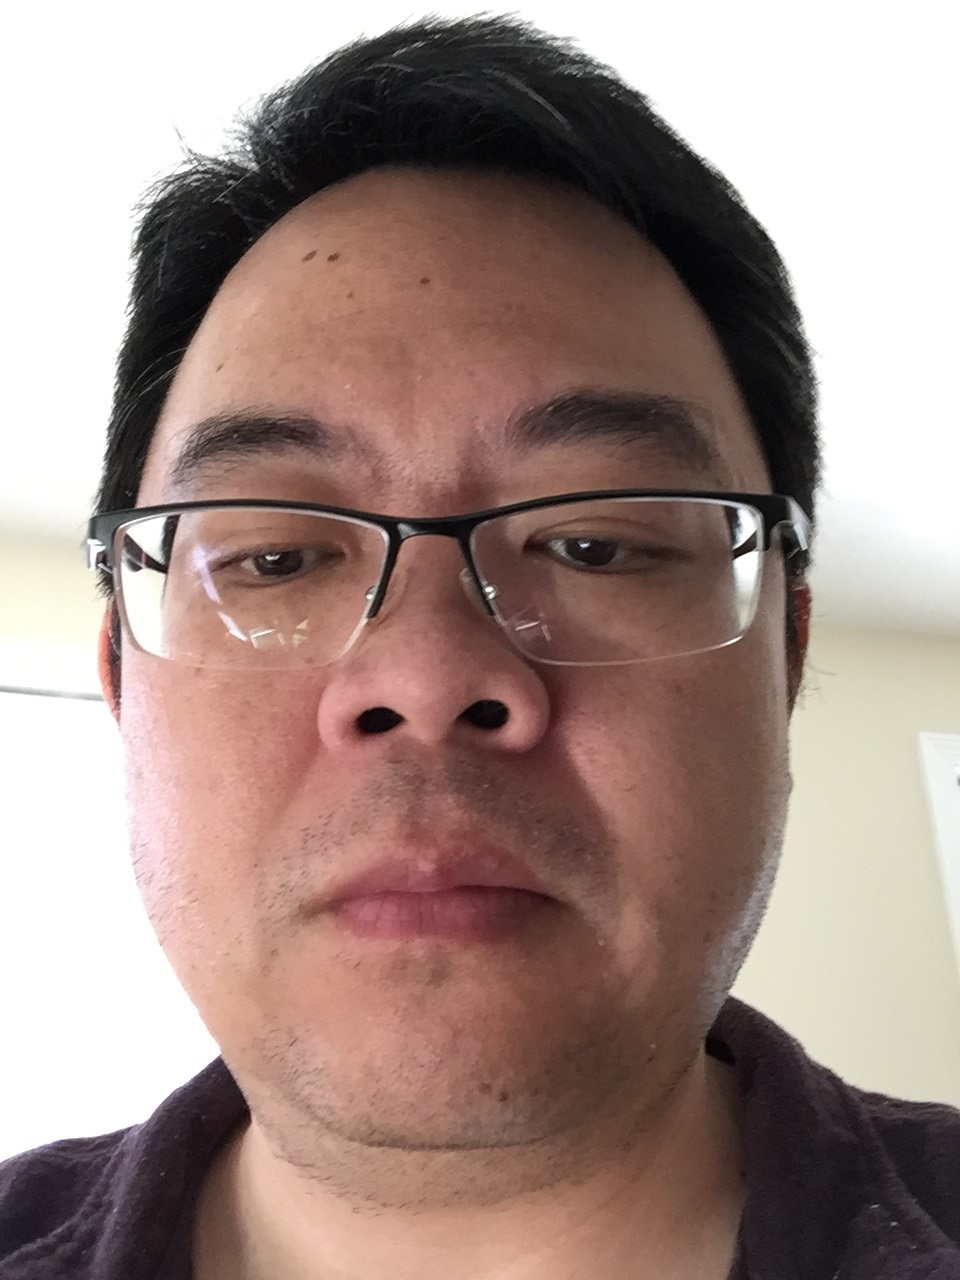
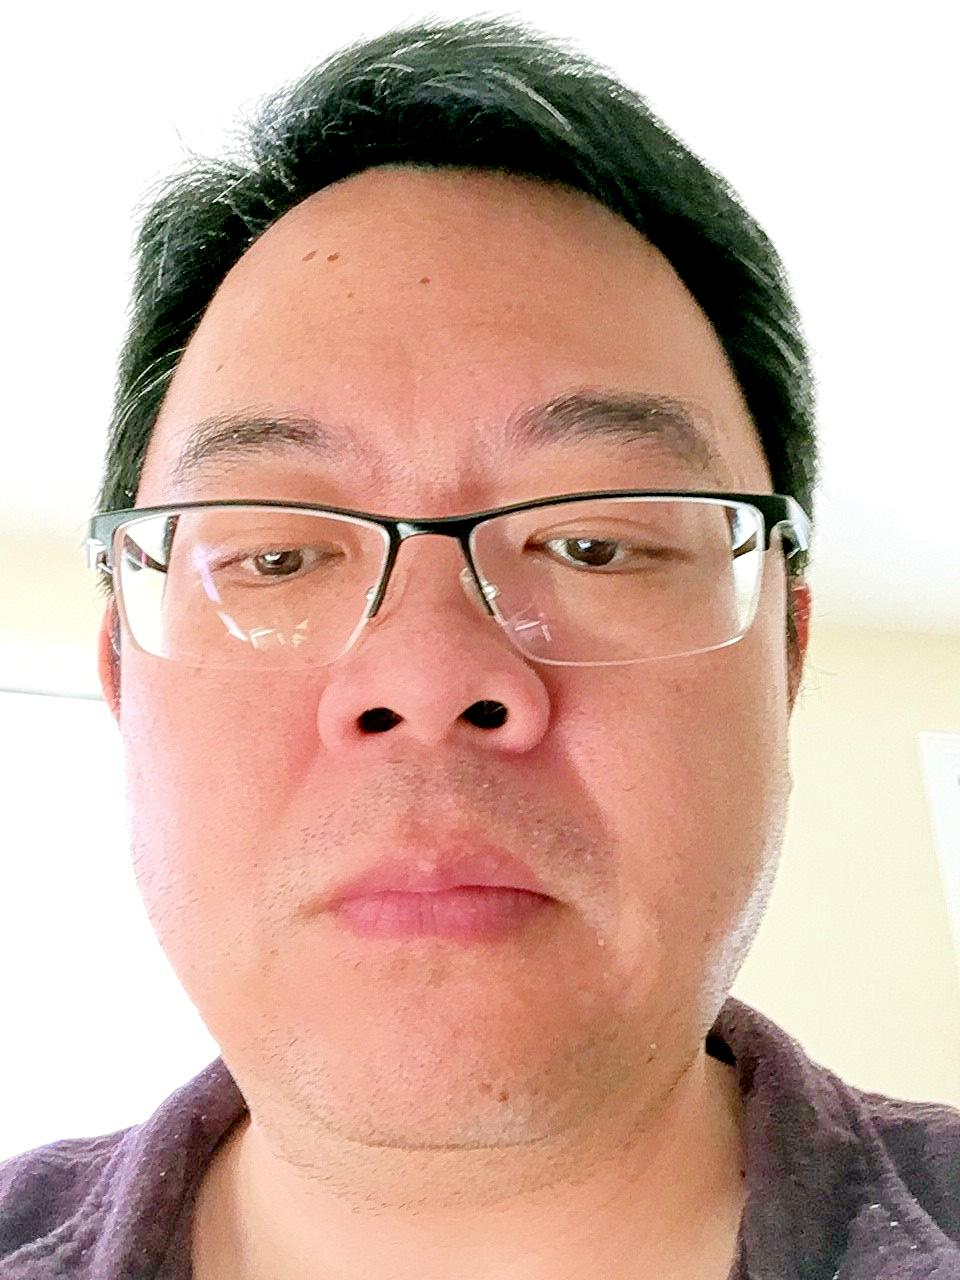
Dataset and preprocessing update

diff --git a/src/facenet.py b/src/facenet.py
@@ -3,6 +3,7 @@ import facenet_recognition
 import cv2
 import shutil
 import sys
+import numpy as np
 from matplotlib import pyplot as plt
 from io import StringIO
 
@@ -12,9 +13,31 @@ class ListStream:
     def write(self, s):
         self.data.append(s)
 
+def increase_brightness(img, value = 30):
+    hsv = cv2.cvtColor(img, cv2.COLOR_BGR2HSV)
+    h, s, v = cv2.split(hsv)
+
+    lim = 255 - value
+    v[v > lim] = 255
+    v[v <= lim] += value
+
+    final_hsv = cv2.merge((h, s, v))
+    img = cv2.cvtColor(final_hsv, cv2.COLOR_HSV2BGR)
+    return img
+
+def histEq(img):
+    img_yuv = cv2.cvtColor(img, cv2.COLOR_BGR2YUV)
+
+    # equalize the histogram of the Y channel
+    img_yuv[:,:,0] = cv2.equalizeHist(img_yuv[:,:,0])
+
+    # convert the YUV image back to RGB format
+    img_output = cv2.cvtColor(img_yuv, cv2.COLOR_YUV2BGR)
+
+    return img_output
+
 # turn off stdout because facenet has so many messages...
 old_stdout = sys.stdout
-
 sys.stdout = mystdout = StringIO()
 
 # declare threshold for accuracy
@@ -47,7 +70,6 @@ classifier = modelDir + "classifier.pkl"
 test_classifier_type = "svm" # type of model either svm or nn
 weight = modelDir + "model_small.yaml" # local store weights
 
-# Store photo taken from webcam
 saved = ("%s" + "%s" + "cap" + "%s" + "%s") % (capData, slash, slash, "capture.jpg")
 
 '''
@@ -74,17 +96,20 @@ print("Train data aligned")
 
 # train classifier from trainAligned
 facenet_recognition.create_classifier(trainDataAligned, model, classifier, weight, test_classifier_type)
+
 print("Classifier trained")
 
 # align data in test
 facenet_recognition.align_input(testData, testDataAligned)
+
 #redirect output from testing classifier to variable
 sys.stdout = output = ListStream()
 
 # test classifier
 facenet_recognition.test_classifier(
             testDataAligned, model, classifier, weight, test_classifier_type)
-            
+
+
 # parse last output -> [first, last, accuracy]
 result = result = output.data[-4].split(" ")[-3:]
 name = "%s_%s" % (result[0], result[1].replace(":", ""))
@@ -93,8 +118,6 @@ name = "%s_%s" % (result[0], result[1].replace(":", ""))
 sys.stdout = old_stdout
 
 print("%s %s" % (name, result[-1]))
-
-
 '''
 
 # take input from webcam
@@ -105,17 +128,15 @@ while(cap.isOpened()):
 
     # display stream
     ret, frame = cap.read()
+    bframe = increase_brightness(frame)
+    cv2.imshow('Cam', bframe)
 
-    # CHANGE to add rectangle on top of frame
-    cv2.imshow('Webcam', frame)
-    # cv2.rectangle(frame, (0, 500), (700, 0), (255,0,0), 2)
-
-    # listen for keypress - CHANGE SO THAT IT'LL TAKE A PHOTO EVERYTIME SEES FACE
+    # listen for keypress
     c = cv2.waitKey(1) % 256
 
     # check if face is detected first, maybe show bounding boxes and update per 3-5 frames
 
-    # if 'c' is pressed - ord returns integer representation of character
+    # if 'c' is pressed
     if c == ord('c'):
             # delete from capDataAligned
             alignedCapPic = (capDataAligned + "%s" + "cap" + "%s" + "capture.png") % (slash, slash)
@@ -125,13 +146,7 @@ while(cap.isOpened()):
             # save input in capData
             cv2.imwrite(saved, frame)
 
-            # Debug
-            capturedFrame = cv2.imread(saved, cv2.IMREAD_COLOR)
-            cv2.rectangle(capturedFrame, (0,200), (200, 0), (0,0,200), 15)
-            cv2.imshow("TEST", capturedFrame)
-
             # align captured frame from capData to capDataAligned
-            # Take image from cap/cap, align, and save to cap_aligned/cap
             facenet_recognition.align_input(capData, capDataAligned)
 
             # redirect output from testing classifier to a variable
@@ -146,17 +161,13 @@ while(cap.isOpened()):
 
                     # parse last output -> [first, last, accuracy]
                     result = output.data[-4].split(" ")[-3:]
-
-                    # debug
-                    print("%s" % (result[0]))
-
+                    
                     # turn on stdout to print out result
                     sys.stdout = old_stdout
 
                     # higher than threshold = open original image and window name -> person's name
                     # lower than certain threshold = "unknown" and do not open any image
                     if (float)(result[-1]) > threshold:
-                            # Get name of person identified and use this to get name from originals directory
                             name = "%s_%s" % (result[0], result[1].replace(":", ""))
                             print(name)
 
